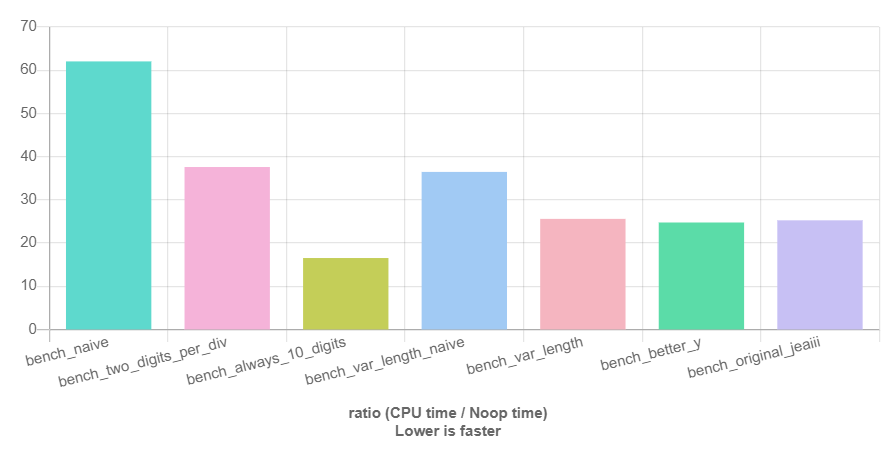
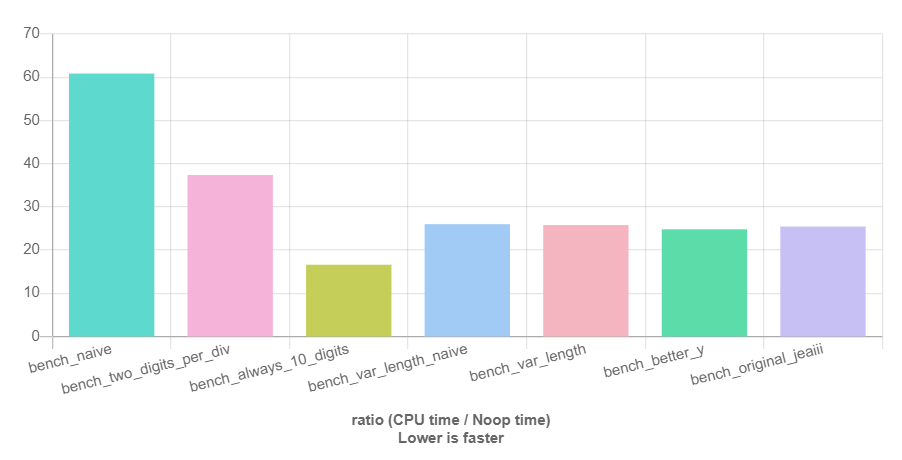
Rerun bench

diff --git a/_posts/2022-02-16-jeaiii-algorithm.md b/_posts/2022-02-16-jeaiii-algorithm.md
@@ -711,7 +711,7 @@ Alright, now let's compare the performance of these implementations.
 
 ![2022-02-16-itoa_bench](https://raw.githubusercontent.com/jk-jeon/jk-jeon.github.io/master/_posts/2022-02-16-itoa_bench.png)
 
-Link: [https://quick-bench.com/q/ILG9wO9mZHDsAoybHNooXSZSvx0](https://quick-bench.com/q/ILG9wO9mZHDsAoybHNooXSZSvx0)
+Link: [https://quick-bench.com/q/ieIpsBhWC751YUhyVS2OE83dTO4](https://quick-bench.com/q/ieIpsBhWC751YUhyVS2OE83dTO4)
 
 `itoa_var_length_naive` is a straightforward variation of `itoa_var_length` doing the naive quotient/remainder computation instead of playing with $y$. Well, compared to `itoa_var_length_naive`, the performance benefit of `itoa_better_y` seems not very impressive to be honest. Nevertheless, I still think the idea behind the algorithm is pretty intriguing.
 
